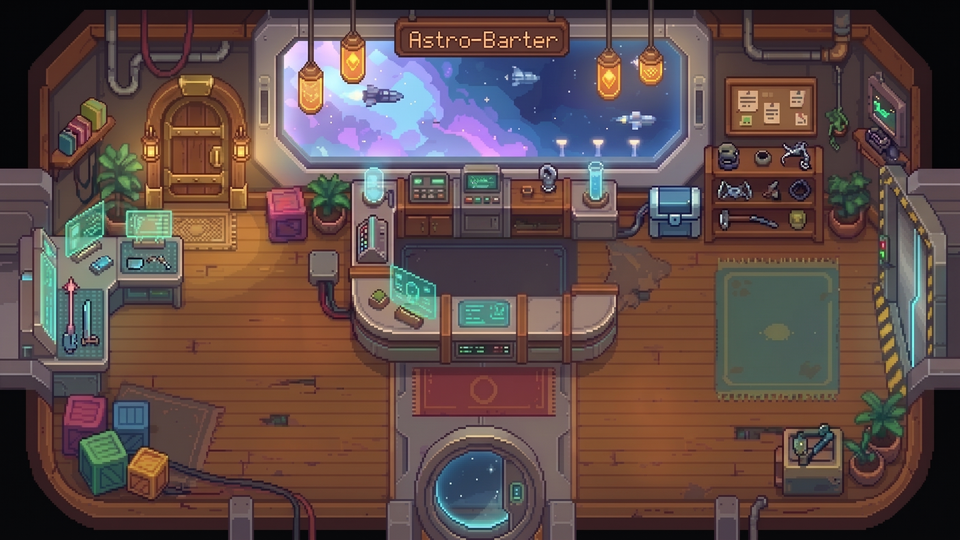
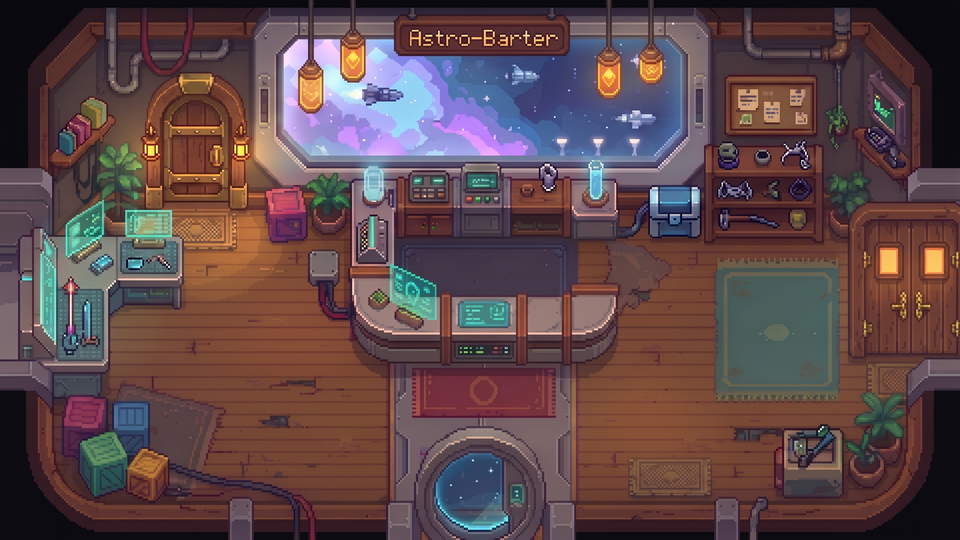
fix(welt): frontale Vitrinen Stufe 2/3, Hitboxen für Hub-Props, Leaderboard-Kiosk auf Bodenplatte, Holztür im Laden, Hangar-Ausgang unten, Upgrade-Feinschliff (Sound, Ambient, Schiff-Enthüllung)
Claude-Session: https://claude.ai/code/session_016nKYwkpeUHJGHpF5xe8T1D

diff --git a/src/scenes/UpgradeCutsceneOverlay.ts b/src/scenes/UpgradeCutsceneOverlay.ts
@@ -72,7 +72,7 @@ export class UpgradeCutsceneOverlay {
   constructor(config: UpgradeCutsceneConfig) {
     this.config = config;
     const short = getDeviceSettings().shortCutscenes;
-    if (config.building || config.room) {
+    if (config.building || config.room || config.kind === 'ship') {
       this.duration = config.major ? (short ? 1.5 : 3.0) : short ? 1.0 : 1.9;
     } else if (config.major) {
       this.duration = short ? 1.15 : 2.15;
@@ -87,7 +87,7 @@ export class UpgradeCutsceneOverlay {
       window.addEventListener('pointerdown', this.onPointerDown);
     }
 
-    if (config.building || config.room) {
+    if (config.building || config.room || config.kind === 'ship') {
       // Die Zeitleiste (update) steuert Hämmern & Enthüllung
     } else if (config.kind === 'weapon' || config.kind === 'forge_step') {
       sound.playForgeHammer();
@@ -137,14 +137,17 @@ export class UpgradeCutsceneOverlay {
 
   /** Zeitleiste der Gebäude-/Raum-Animation: Bau-Phase (Hämmern, Staub) → Enthüllung → Halten. */
   private updateTimeline(progress: number, dt: number): void {
-    const revealAt = this.config.building ? 0.4 : 0.3;
+    const revealAt = this.config.building ? 0.4 : this.config.kind === 'ship' ? 0.42 : 0.3;
     const buildFrom = 0.16;
     if (this.config.building && progress >= buildFrom && progress < revealAt) {
       this.strikeTimer -= dt;
       if (this.strikeTimer <= 0) {
         this.strikeTimer = 0.2;
-        sound.playForgeHammer();
-        this.spawnSparks(VIRTUAL_WIDTH / 2 + (Math.random() - 0.5) * 70, VIRTUAL_HEIGHT / 2 + (Math.random() - 0.5) * 40, 7, '#fb923c');
+        if (this.config.building === 'forge') sound.playForgeHammer();
+        else if (this.config.building === 'med') sound.playStoryChime();
+        else sound.playBoardingChime();
+        const sparkCol = this.config.building === 'med' ? '#4ade80' : this.config.building === 'tech' ? '#38e8d4' : '#fb923c';
+        this.spawnSparks(VIRTUAL_WIDTH / 2 + (Math.random() - 0.5) * 70, VIRTUAL_HEIGHT / 2 + (Math.random() - 0.5) * 40, 7, sparkCol);
         this.shake = 1.6;
       }
     }
@@ -170,7 +173,7 @@ export class UpgradeCutsceneOverlay {
 
     const progress = this.elapsed / this.duration;
 
-    if (this.config.building || this.config.room) {
+    if (this.config.building || this.config.room || this.config.kind === 'ship') {
       this.updateTimeline(progress, safeDt);
     } else
     // 2. Hammerschlag + Enthüllung bei großen Waffen-Schmiede-Meilensteinen
@@ -424,7 +427,80 @@ export class UpgradeCutsceneOverlay {
     }
   }
 
+  /** Schiff-Enthüllung im Raumhafen: das neue Schiff setzt auf seinem Dock auf, die Rampe fährt aus. */
+  private renderShip(ctx: CanvasRenderingContext2D): void {
+    const art = getHDArt();
+    const key = this.config.shipKey ?? 'shipCorvette';
+    const docks: Record<string, { x: number; y: number }> = {
+      shipCorvette: { x: 146, y: 86 },
+      shipCrystal: { x: 364, y: 86 },
+      shipSolar: { x: 146, y: 202 },
+      shipMonolith: { x: 364, y: 202 },
+    };
+    const pos = docks[key] ?? docks.shipCorvette;
+    const bankKey = `${key}Bank` as 'shipCorvetteBank';
+    const dockedKey = `${key}Docked` as 'shipCorvetteDocked';
+    const openKey = `${key}DockedOpen` as 'shipCorvetteDockedOpen';
+    const t = Math.min(1, this.elapsed / this.duration);
+    const fadeIn = easeInOut(t / 0.1);
+    const fadeOut = easeInOut((1 - t) / 0.1);
+    const alpha = Math.min(fadeIn, fadeOut);
+    const landT = easeInOut(t / 0.42);
+
+    ctx.save();
+    ctx.globalAlpha = alpha;
+    ctx.fillStyle = '#05070f';
+    ctx.fillRect(0, 0, VIRTUAL_WIDTH, VIRTUAL_HEIGHT);
+    if (art.hangarBg) ctx.drawImage(art.hangarBg, 0, 0, VIRTUAL_WIDTH, VIRTUAL_HEIGHT);
+    // Kamera schiebt leicht auf das Dock
+    const landed = t >= 0.42;
+    const rampOpen = t >= 0.55;
+    const sx = pos.x + (1 - landT) * 120;
+    const sy = pos.y - (1 - landT) * 150;
+    if (!landed) {
+      ctx.save();
+      ctx.globalAlpha = alpha * (0.15 + landT * 0.4);
+      ctx.fillStyle = '#000';
+      ctx.beginPath();
+      ctx.ellipse(pos.x, pos.y + 24, 38 * landT, 12 * landT, 0, 0, Math.PI * 2);
+      ctx.fill();
+      ctx.restore();
+      drawGlow(ctx, sx - 16, sy + 18, 40, '#38e8d4', 0.5);
+      const flySpr = art[bankKey] ?? art.shipCorvetteBank;
+      if (flySpr) ctx.drawImage(flySpr, Math.round(sx - 47), Math.round(sy - 47), 94, 94);
+    } else {
+      const spr = (rampOpen ? art[openKey] : art[dockedKey]) ?? art[dockedKey] ?? art.shipCorvetteDocked;
+      ctx.save();
+      ctx.globalAlpha = alpha * 0.55;
+      ctx.fillStyle = '#05070f';
+      ctx.beginPath();
+      ctx.ellipse(pos.x, pos.y + 24, 40, 12, 0, 0, Math.PI * 2);
+      ctx.fill();
+      ctx.restore();
+      if (spr) ctx.drawImage(spr, Math.round(pos.x - 52), Math.round(pos.y - 52), 104, 104);
+      if (rampOpen) drawGlow(ctx, pos.x + 3, pos.y + 12, 30, '#fde68a', 0.34);
+    }
+    ctx.fillStyle = '#040710';
+    ctx.fillRect(0, 0, VIRTUAL_WIDTH, 14);
+    ctx.fillRect(0, VIRTUAL_HEIGHT - 14, VIRTUAL_WIDTH, 14);
+    this.drawSparksAndFlash(ctx, 1);
+    ctx.restore();
+    this.renderBanner(ctx, easeInOut((t - 0.6) / 0.12) * fadeOut, false);
+    if (t > 0.65 && t < 0.92) {
+      ctx.save();
+      ctx.textAlign = 'center';
+      ctx.font = '6px monospace';
+      ctx.fillStyle = 'rgba(148, 163, 184, 0.8)';
+      ctx.fillText('[KLICK / TASTE] WEITER', VIRTUAL_WIDTH / 2, 10);
+      ctx.restore();
+    }
+  }
+
   public render(ctx: CanvasRenderingContext2D): void {
+    if (this.config.kind === 'ship') {
+      this.renderShip(ctx);
+      return;
+    }
     if (this.config.building) {
       this.renderZoom(ctx);
       return;
@@ -437,7 +513,7 @@ export class UpgradeCutsceneOverlay {
     const t = Math.min(1, this.elapsed / this.duration);
     const cx = VIRTUAL_WIDTH / 2;
     const cy = VIRTUAL_HEIGHT / 2;
-    const { kind, title, subtitle, accent, major, minaPresent, shipKey } = this.config;
+    const { kind, title, subtitle, accent, major, minaPresent } = this.config;
 
     // Sanfter Ein-/Ausblendfaktor
     const fadeIn = Math.min(1, this.elapsed / 0.14);
@@ -509,17 +585,6 @@ export class UpgradeCutsceneOverlay {
         ctx.fillText('⚔', cx, stageY - 5);
         ctx.restore();
       }
-    } else if (major && kind === 'ship') {
-      const spr = (shipKey ? art[shipKey] : null) ?? art.shipCorvette;
-      if (spr) {
-        ctx.drawImage(spr, Math.round(cx - 26), Math.round(cardY + 14), 52, 52);
-      }
-      // Blueprint-Scan-Linie
-      const scanY = cardY + 14 + ((this.elapsed * 58) % 52);
-      ctx.fillStyle = accent;
-      ctx.globalAlpha = alpha * 0.7;
-      ctx.fillRect(cx - 42, Math.round(scanY), 84, 2);
-      ctx.globalAlpha = alpha;
     } else if (major && (kind === 'shop' || kind === 'quarters')) {
       // Goldene Vitrinen-Ikone
       ctx.fillStyle = '#fbbf24';
@@ -545,11 +610,9 @@ export class UpgradeCutsceneOverlay {
           ? 'KAPITÄNS-QUARTIER · AUSBAU'
           : kind === 'shop'
           ? 'ASTRO-BARTER · LADEN-AUSBAU'
-          : kind === 'ship'
-            ? 'RAUMHAFEN · NEUES SCHIFF'
-            : kind === 'forge_step'
-              ? 'SCHMIEDE-AUFWERTUNG'
-              : 'UPGRADE ABGESCHLOSSEN';
+          : kind === 'forge_step'
+            ? 'SCHMIEDE-AUFWERTUNG'
+            : 'UPGRADE ABGESCHLOSSEN';
     ctx.fillText(kicker, cx, cardY + (major ? 84 : 20));
 
     ctx.font = major ? 'bold 10px monospace' : 'bold 9px monospace';

diff --git a/src/scenes/HangarScene.ts b/src/scenes/HangarScene.ts
@@ -28,7 +28,7 @@ export interface HangarCallbacks {
 }
 
 // Exact coordinates aligned pixel-for-pixel to public/art/hangar_bg.png (480x270 logical)
-const PROMENADE_GATE_POS = { x: 100, y: 146 }; // Schleusentür steht in der Wand (x 33–89): man tritt davor, nicht darüber
+const PROMENADE_GATE_POS = { x: 240, y: 238 }; // Ausgangstür unten Mitte (im Hintergrund eingebaut)
 const DOCK1_POS = { x: 146, y: 86 }; // Sektor 1: Verlassene Korvette (Unlocked & Ship Docked!)
 const DOCK2_POS = { x: 364, y: 86 }; // Sektor 2: Kristall-Nebel (Ship docks once Sector 1 cleared!)
 const DOCK3_POS = { x: 146, y: 202 }; // Sektor 3: Solar-Gießerei (Ship docks once Sector 2 cleared!)
@@ -159,10 +159,10 @@ export class HangarScene {
         this.spawnBurst(DOCK1_POS.x, DOCK1_POS.y + 24, '#38e8d4', 18);
       }
     } else {
-      this.playerX = 104;
-      this.playerY = 146;
-      this.facing = 'right';
-      this.spawnBurst(PROMENADE_GATE_POS.x + 8, PROMENADE_GATE_POS.y, '#38e8d4', 14);
+      this.playerX = 240;
+      this.playerY = 222;
+      this.facing = 'up';
+      this.spawnBurst(PROMENADE_GATE_POS.x, PROMENADE_GATE_POS.y, '#38e8d4', 14);
     }
   }
 
@@ -427,7 +427,7 @@ export class HangarScene {
     }
 
     this.movePlayer(vx * dt, vy * dt);
-    this.updateInteraction(input, mv.x);
+    this.updateInteraction(input, mv.y);
     this.updateParticles(dt);
   }
 
@@ -445,7 +445,6 @@ export class HangarScene {
   private isWalkable(x: number, y: number): boolean {
     if (x < 56 || x > 438 || y < 44 || y > 244) return false;
     if (x < 84 && y < 112) return false;
-    if (x < 92 && y > 108 && y < 182) return false; // Tür-Nische (Wandbauteil)
     if (Math.hypot(x - OMEGA_GATE_POS.x, y - OMEGA_GATE_POS.y) < 35) return false;
     if (x > 106 && x < 186 && y > 54 && y < 114) return false;
     if (this.state.sector1Cleared && x > 324 && x < 404 && y > 54 && y < 114) return false;
@@ -454,17 +453,17 @@ export class HangarScene {
     return true;
   }
 
-  private updateInteraction(input: InputManager, moveX: number): void {
+  private updateInteraction(input: InputManager, moveY: number): void {
     this.activePrompt = null;
 
-    // 1. Left Gateway back to Port Solaris Promenade
+    // 1. Ausgangstür (unten Mitte) zurück zur Port Solaris Promenade
     if (Math.hypot(this.playerX - PROMENADE_GATE_POS.x, this.playerY - PROMENADE_GATE_POS.y) < 34) {
       this.activePrompt = {
         label: '[E] Zurück zur Port Solaris Promenade',
-        x: PROMENADE_GATE_POS.x + 46,
-        y: PROMENADE_GATE_POS.y - 40,
+        x: PROMENADE_GATE_POS.x,
+        y: PROMENADE_GATE_POS.y - 34,
       };
-      if (input.interactPressed() || (this.entryCooldown <= 0 && moveX < -0.65 && this.playerX <= 98)) {
+      if (input.interactPressed() || (this.entryCooldown <= 0 && moveY > 0.65 && this.playerY >= 240)) {
         sound.playUiClick();
         this.callbacks.onReturnToHub();
       }
@@ -648,7 +647,7 @@ export class HangarScene {
       drawGlow(ctx, lx, 22, 24, '#fbbf24', 0.2 + pulse * 0.06);
     }
 
-    drawGlow(ctx, 56, 134, 34, '#38e8d4', 0.26 + pulse * 0.1);
+    drawGlow(ctx, PROMENADE_GATE_POS.x, 246, 26, '#38e8d4', 0.16 + pulse * 0.07); // Lichtschein der Ausgangstür unten
 
     // Central 5th Omega Stargate core & 4 Sector Key Seal Sockets
     const keysLit = this.countSectorKeys();
@@ -893,7 +892,7 @@ export class HangarScene {
     const keys = this.countSectorKeys();
 
     const pills = [
-      { text: '◀ PROMENADE', x: 62, y: 190, color: '#38e8d4' },
+      { text: '▼ PROMENADE', x: 240, y: 205, color: '#38e8d4' },
       {
         text: isNight ? 'DOCK I · SEKTOR 1 🌙' : 'DOCK I · SEKTOR 1',
         x: DOCK1_POS.x,

diff --git a/src/scenes/HubScene.ts b/src/scenes/HubScene.ts
@@ -1,6 +1,6 @@
 import { getHDArt } from '../assets/artLoader';
 import { HUB_BUILDINGS, HUB_TIER_PATCHES, type HubBuildingDef, type HubBuildingId } from '../data/hubBuildings';
-import { drawContactShadow, drawGlow, drawPixelShadow } from '../assets/pixelArt';
+import { drawContactShadow, drawFloorGlow, drawGlow, drawPixelShadow } from '../assets/pixelArt';
 import { getAtlas } from '../assets/sprites';
 import { sound } from '../engine/audio';
 import { VIRTUAL_HEIGHT, VIRTUAL_WIDTH, type InputManager } from '../engine/input';
@@ -221,6 +221,11 @@ export class HubScene {
       this.playerY = 138;
       this.facing = 'right';
     }
+  }
+
+  /** Während einer Upgrade-Cutscene läuft die Szene darunter weiter (Kael & Mina arbeiten, Lichter flackern). */
+  public tickAmbient(dt: number): void {
+    this.time += dt;
   }
 
   public update(dt: number, input: InputManager): void {
@@ -838,8 +843,8 @@ export class HubScene {
     const pulse = 0.5 + 0.5 * Math.sin(this.time * 4.2);
     const nightBoost = isNight ? 0.14 : 0;
     drawGlow(ctx, 132, 82, 38, '#fb923c', 0.24 + nightBoost + pulse * 0.1);
-    drawGlow(ctx, GUILD_BOARD_POS.x, GUILD_BOARD_POS.y - 4, 34, '#38e8d4', 0.24 + nightBoost + pulse * 0.1);
-    drawGlow(ctx, GUILD_BOARD_POS.x, GUILD_BOARD_POS.y - 16, 22, '#fbbf24', 0.18 + pulse * 0.08);
+    drawFloorGlow(ctx, GUILD_BOARD_POS.x, GUILD_BOARD_POS.y + 12, 30, '#38e8d4', 0.2 + nightBoost + pulse * 0.08);
+    drawGlow(ctx, GUILD_BOARD_POS.x, GUILD_BOARD_POS.y - 14, 14, '#38e8d4', 0.14 + pulse * 0.06);
     drawGlow(ctx, 354, 72, 36, '#34d399', 0.22 + nightBoost + pulse * 0.08);
     drawGlow(ctx, 120, 194, 42, '#c084fc', 0.22 + nightBoost + pulse * 0.1);
     drawGlow(ctx, 362, 178, 42, '#38e8d4', 0.22 + nightBoost + pulse * 0.08);
@@ -874,8 +879,8 @@ export class HubScene {
       y: GUILD_BOARD_POS.y + 8,
       draw: () => {
         if (art.propScoreboard) {
-          drawContactShadow(ctx, art.propScoreboard, GUILD_BOARD_POS.x - 22, GUILD_BOARD_POS.y - 31, 44, 44, 0.6);
-          ctx.drawImage(art.propScoreboard, GUILD_BOARD_POS.x - 22, GUILD_BOARD_POS.y - 31, 44, 44);
+          drawContactShadow(ctx, art.propScoreboard, GUILD_BOARD_POS.x - 20, GUILD_BOARD_POS.y - 34, 40, 46, 0.75);
+          ctx.drawImage(art.propScoreboard, GUILD_BOARD_POS.x - 20, GUILD_BOARD_POS.y - 34, 40, 46);
         } else {
           drawPixelShadow(ctx, GUILD_BOARD_POS.x, GUILD_BOARD_POS.y + 11, 20, 5.5, 0.54);
         }

diff --git a/src/scenes/hubEvolution.ts b/src/scenes/hubEvolution.ts
@@ -129,6 +129,16 @@ export class HubEvolutionRenderer {
     const out: Array<{ x: number; y: number; r: number }> = [];
     if (this.chapter >= 4) out.push({ x: OBELISK.x, y: OBELISK.y - 2, r: 8 });
     if (this.flag('vex_spiral') || this.flag('vex_stays')) out.push({ x: VEX_DECO.x, y: VEX_DECO.y - 2, r: 6 });
+    // Alle übrigen standfesten Objekte sind ebenfalls solide (keine Geisterobjekte)
+    const a = this.anchors;
+    if (this.chapter >= 2) {
+      out.push({ x: a.forge.x - 22, y: a.forge.y + 6, r: 4 }, { x: a.medbay.x + 22, y: a.medbay.y + 6, r: 4 });
+    }
+    if (this.chapter >= 6) out.push({ x: a.guild.x + 32, y: a.guild.y - 8, r: 6 });
+    if (this.flag('kael_memorial')) out.push({ x: a.forge.x - 30, y: a.forge.y + 8, r: 6 });
+    if (this.flag('lyra_clinic')) out.push({ x: a.medbay.x - 28, y: a.medbay.y - 4, r: 5 });
+    if (this.flag('nyx_redeemed')) out.push({ x: a.nyxNpc.x - 14, y: a.nyxNpc.y - 8, r: 4 });
+    if (this.state.hasLeviathanTrophy()) out.push({ x: TROPHY_VITRINE.x, y: TROPHY_VITRINE.y - 2, r: 8 });
     return out;
   }
 

diff --git a/src/ui/UIManager.ts b/src/ui/UIManager.ts
@@ -311,7 +311,11 @@ export class UIManager {
           : this.currentScene === 'hub'
             ? isNight
               ? '🌙 Nacht: Laden öffnen (Schicht) oder Nacht-Run (+35 % Rar-Loot, Schicht fällt aus) · Unten: Marktplatz-Terrasse · Rechts: Raumhafen!'
-              : 'Oben: Kael, Kapitäns-Tafel & Lyra · Unten: Nyx, Marktplatz-Terrasse & Vex · Rechts: Raumhafen!'
+              : `Oben: Kael, Kapitäns-Tafel & Lyra · Unten: ${
+                  this.state.isHubBuildingOpen('blackmarket') ? 'Nyx' : 'Schwarzmarkt (bald)'
+                }, ${this.state.isHubBuildingOpen('terrace') ? 'Marktplatz-Terrasse' : 'Terrasse (gesperrt)'} & ${
+                  this.state.isHubBuildingOpen('techlab') ? 'Vex' : 'Tech-Labor (im Aufbau)'
+                } · Rechts: Raumhafen!`
             : this.currentScene === 'market_terrace'
               ? 'Marktplatz-Terrasse: Links Milo’s Alchemie-Bar (Run-Elixiere) · Mitte Händler-Gilde · Rechts Solaris-Handelsbank!'
               : this.currentScene === 'hangar'

diff --git a/src/data/hubBuildings.ts b/src/data/hubBuildings.ts
@@ -70,7 +70,7 @@ export const HUB_TIER_PATCHES: HubTierPatchDef[] = [
     { sprite: 'hub_tier_tech2', rect: { x: 582, y: 262, w: 306, h: 250 } },
   ] },
   { id: 'shop', patches: [
-    { sprite: 'hub_tier_shop1', rect: { x: 47, y: 72, w: 181, h: 235 } },
+    { sprite: 'hub_tier_shop1', rect: { x: 43, y: 72, w: 158, h: 226 } },
     { sprite: 'hub_tier_shop2', rect: { x: 41, y: 72, w: 187, h: 236 } },
   ] },
 ];

diff --git a/src/main.ts b/src/main.ts
@@ -1120,6 +1120,7 @@ class StarlighterGame {
         cb?.();
       }
     } else if (this.upgradeCutscene) {
+      if (this.activeScene === 'hub') this.hubScene.tickAmbient(dt);
       const done = this.upgradeCutscene.update(dt, this.input);
       if (done) {
         const cb = this.upgradeCutsceneOnDone;

diff --git a/handoff/world_overhaul.md b/handoff/world_overhaul.md
@@ -17,8 +17,8 @@
 - [x] Marktterrasse komplett neu: `public/art/market_terrace_bg.png` + Sprites `market_bar/guild/bank.png` (vorher nur Rechtecke im Nichts); Deck-Grenzen an Geländer angepasst (`DECK_BOTTOM 186`), HUD-Hinweis für `market_terrace`; Hangar-Tür neu (Statuslicht, Schild).
 - [x] **P3 Quartier in Stufen** (`upgrades.quartersTier` 0..2, Track „Quartier-Ausbau“ im Shop-Ausbau-Terminal: Stufe II 420 Cr + 3 scrap_coil + 1 alien_prism, Stufe III 1100 Cr + aegis_plate + 3 reactor_shard): Stufe 0 = Notkoje (Drohnen-Dock & Jukebox abgedeckt/gesperrt, nackter Trophäen-Sockel, `backroom_bg_t1.png`), Stufe 1 = bisheriges Quartier (`backroom_bg.png`), Stufe 2 = Flaggschiff-Suite (`backroom_bg_t3.png`). Alt-Saves ohne Feld: Begleiter/Sektor 1/Tag > 3 → Stufe 1. Test `world_p3_quarters`. Stufe III: 4 Trophäen-Vitrinen leuchten je bezwungenem Sektor (sonst abgedunkelt, `BackroomScene.render`). Quartier-Cutscene: Beschriftung `quarters` (echte Animation kommt mit P4-Upgrade-Animationen). Hangar-Tür: Modell kann sie nicht in die Wand bauen → im Code als festes Wandobjekt (Nische x<92 blockiert, Gate-Pos (100,146))
 - [x] **P4a Gebäude hinter Ereignissen** (`src/data/hubBuildings.ts`, `GameState.hubUnlocks/checkHubUnlocks`, optionales Save-Feld `hubUnlocks`; Alt-Saves ohne Feld → alles offen): Tech-Labor/Vex öffnet nach erstem Kampf/Floor 2/Sektor 1; Schwarzmarkt/Nyx nach 3 Verkäufen oder Sektor 1; Terrasse nach Sektor 1 / erstem Boss. Geschlossen = Baustellen-Patch (`hub_lock_tech/black/terr.png`, aus Vollbild-Edit per `scripts/diff-patch.py` mit Rect-Maske), NPC fehlt, Prompt „🔒 …“, Schild „IM AUFBAU/GESCHLOSSEN“; beim Öffnen Toast + 1,4 s Ausblend-Effekt mit Funken. Test `world_p4_hub`.
-- [x] **P4b Läden je Stufe**: `getHubTiers()` (Schmiede: höchste Waffenstufe ≥2/≥5; Med-Bay: max(bioRegen,stimpack) ≥2/3; Tech: Mod-Summe ≥3/≥6; Laden: shopTier) → 8 Patches `hub_tier_<forge|med|tech|shop><1|2>.png`, Positionen in `hubBuildings.ts` (`HUB_TIER_PATCHES`). ⬜ Laden-Fassade hat auf Stufe 1/2 kein „Astro-Barter“-Schild mehr im Bild (ggf. Schild per Code/Sprite ergänzen)
-- [x] **P4c Upgrade-Animationen** (`UpgradeCutsceneOverlay`): Hub-Gebäude (`building`) = Kamera zoomt per Canvas-Selbstkopie auf das Gebäude, Bau-Phase (Hämmern, Staub, Arbeitslicht), Enthüllung wechselt `HubScene.tierOverride` alt→neu (Ring, Funken, Blitz), Titel-Band statt Karte; Laden-/Quartier-Ausbau (`room`) = Lichtstreifen wischt vom alten zum neuen Raumbild. Schiff-Enthüllung & Mini-Upgrades ohne Gebäude behalten die kleine Karte. Studio `?cutscenelab` mit allen Varianten. ⬜ Sound je Gebäude (Med/Tech nutzen noch Hammer-Sound), Mina/Kael-Sprites aktiv beim Hämmern, Schiff-Enthüllung im Raumhafen
+- [x] **P4b Läden je Stufe**: `getHubTiers()` (Schmiede: höchste Waffenstufe ≥2/≥5; Med-Bay: max(bioRegen,stimpack) ≥2/3; Tech: Mod-Summe ≥3/≥6; Laden: shopTier) → 8 Patches `hub_tier_<forge|med|tech|shop><1|2>.png`, Positionen in `hubBuildings.ts` (`HUB_TIER_PATCHES`). Fassaden-Schild „Astro-Barter“ auf Stufe 1/2 wieder lesbar ✅
+- [x] **P4c Upgrade-Animationen** (`UpgradeCutsceneOverlay`): Hub-Gebäude (`building`) = Kamera zoomt per Canvas-Selbstkopie auf das Gebäude, Bau-Phase (Hämmern, Staub, Arbeitslicht), Enthüllung wechselt `HubScene.tierOverride` alt→neu (Ring, Funken, Blitz), Titel-Band statt Karte; Laden-/Quartier-Ausbau (`room`) = Lichtstreifen wischt vom alten zum neuen Raumbild. Schiff-Enthüllung & Mini-Upgrades ohne Gebäude behalten die kleine Karte. Studio `?cutscenelab` mit allen Varianten. Sound je Gebäude, Kael/Mina/Lichter laufen weiter (`tickAmbient`), Schiff-Enthüllung im Raumhafen ✅
 - [ ] P5 … P6 (siehe oben)
 
 ## Praxis-Learnings
@@ -36,3 +36,8 @@
 12. Ausbaustufen eines Raums = je Stufe ein eigenes 16:9-Hintergrundbild aus dem Original per art:gen („keep layout pixel-identical, convert to <Variante>“) — Interaktionspunkte bleiben gültig. Gesperrtes Feature = sichtbar abgedeckt (Plane/LOCKED-Licht) + Prompt „🔒 … Stufe II“, nie unsichtbar.
 13. `scripts/diff-patch.py <orig> <edit> <out> --thr 40 --rect x0,y0,x1,y1`: Vollbild-Edit des Hubs → Overlay-Patch (Alpha = geglättete Differenz). OHNE `--rect` ist das ganze Bild „verschieden“ (die Generierung färbt global minimal um) → immer Rect setzen. Ausgabe nennt x,y,w,h in 960×540; im Code /2 (logische Koordinaten).
 14. Zoom auf die laufende Szene: `ctx.drawImage(ctx.canvas, sx*k, sy*k, sw*k, sh*k, 0,0,canvas.width,canvas.height)` nach `setTransform(1,0,0,1,0,0)` (k = canvas.width/VIRTUAL_WIDTH); die Szene darunter muss weiter rendern, ihr `activePrompt` vorher auf null setzen.
+15. **Vitrinen-/Prop-Kamera erneut geprüft (Inhaber-Feedback 2026-11-28):** Stufe 2/3 waren wieder isometrisch, weil das Modell die Perspektive vom Vorgänger-Bild übernimmt → Referenz IMMER das frontale Stufe-1-Bild, Prompt „STRICT ORTHOGRAPHIC FRONT VIEW … ABSOLUTELY NOT isometric“. Danach alle drei frontal.
+16. Hub-Objekte ohne Hitbox: jedes standfeste Prop in `hubEvolution.getDrawables` braucht einen Eintrag in `getColliders()` (Trophäen-Vitrine, Laternen, Denkmal, Echo-Schild, Cycle-Holo …). Test `world_p4_hub`.
+17. Türen: Laden-Innentür = Holztür (passt zur Holz-Fassade außen); Hangar-Ausgang = die unten mittig im Bild vorhandene Tür (Hazard-Rahmen + Schild), Spawn (240,222), Ausgang per E oder nach unten laufen. Das Modell kann Türen nicht in eine Seitenwand setzen — bestehende Tür-Öffnung im Bild nutzen.
+18. Leaderboard-Kiosk (`prop_scoreboard`, 80×100): frontal auf verschraubter Bodenplatte mit Kabeln; Bodenlicht flach (`drawFloorGlow`).
+19. Upgrade-Cutscenes: Sound je Gebäude (Schmiede Hammer, Med Chime, Tech Boarding-Chime), `HubScene.tickAmbient` lässt Kael/Mina/Lichter während der Cutscene weiterlaufen, Schiff-Enthüllung (`kind: 'ship'`) landet im Raumhafen auf dem Dock mit Rampe.

diff --git a/SPRITE_QUEUE.md b/SPRITE_QUEUE.md
@@ -299,3 +299,4 @@ Wer im Code oder in einem Plan ein neues benötigtes Sprite, ein neues M11-Sheet
 - [x] **W-07** `public/art/backroom_bg_t1.png` (Notkoje, Dock/Jukebox gesperrt) und `backroom_bg_t3.png` (Flaggschiff-Suite); Stufe II = bestehendes `backroom_bg.png`
 - [x] **W-08** `hub_lock_tech.png`, `hub_lock_black.png`, `hub_lock_terr.png` (Baustellen-/Gesperrt-Patches für Tech-Labor, Schwarzmarkt, Terrassen-Zugang)
 - [x] **W-09** `hub_tier_{forge,med,tech,shop}{1,2}.png` (8 Ausbau-Patches der Läden auf Port Solaris)
+- [x] **W-10** `vitrine_t1..t3` neu (strikt frontal), `prop_scoreboard.png` (Kiosk auf Bodenplatte), `shop_bg*.png` (Holz-Innentür), `hangar_bg.png` (Ausgangstür unten, linke Tür entfernt), `hub_tier_shop1/2` (Schild lesbar)
